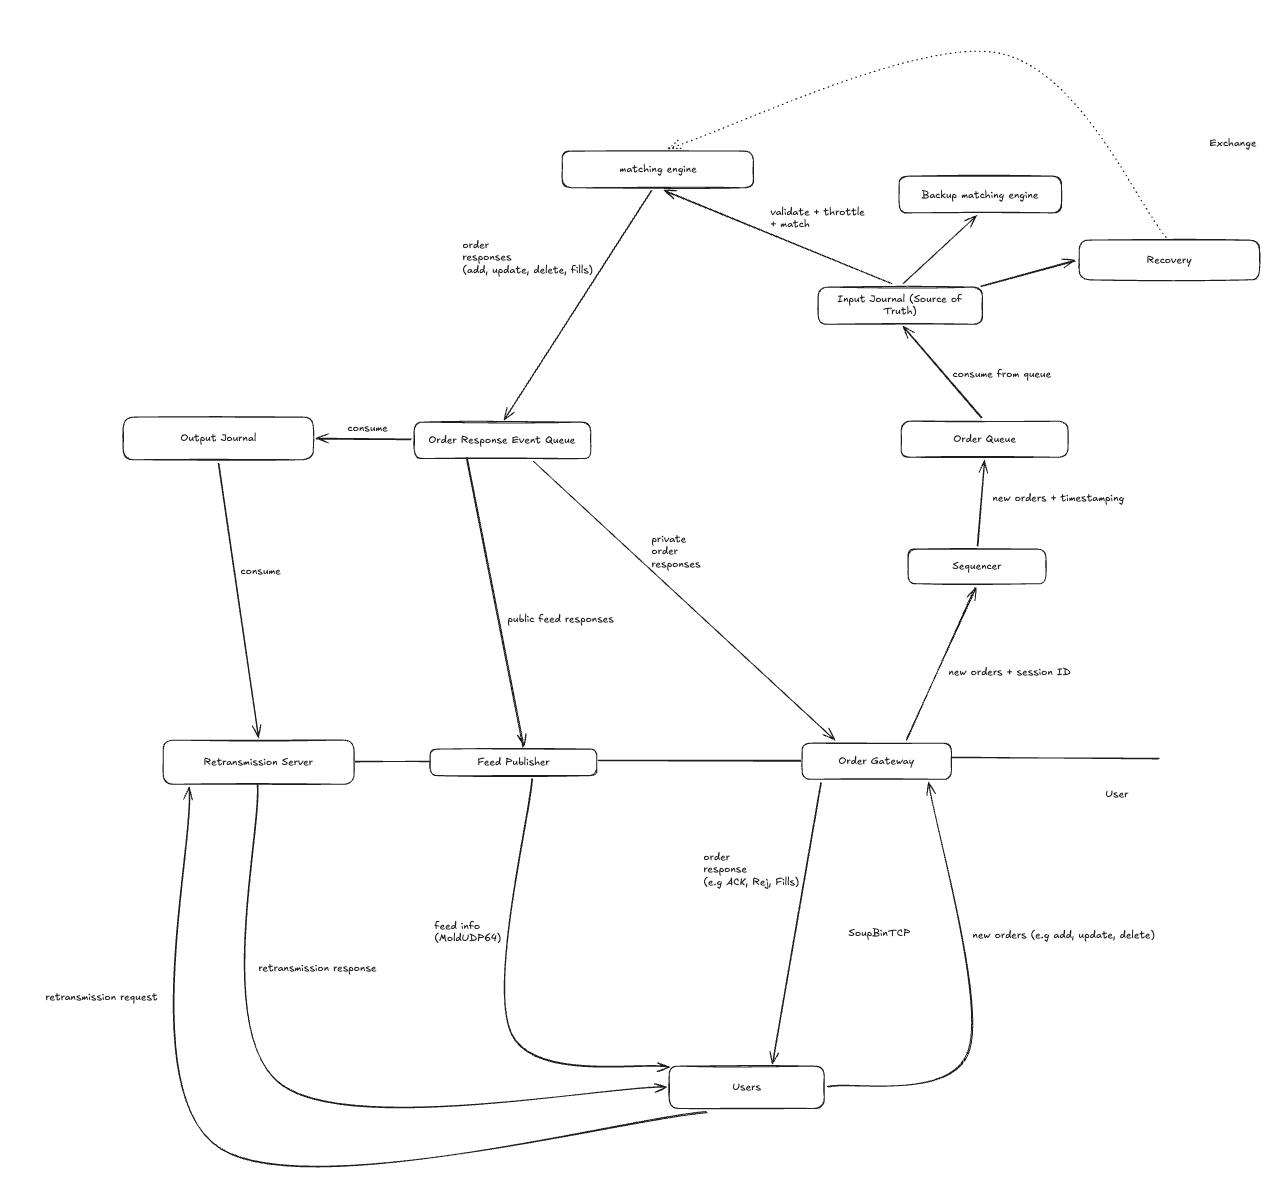
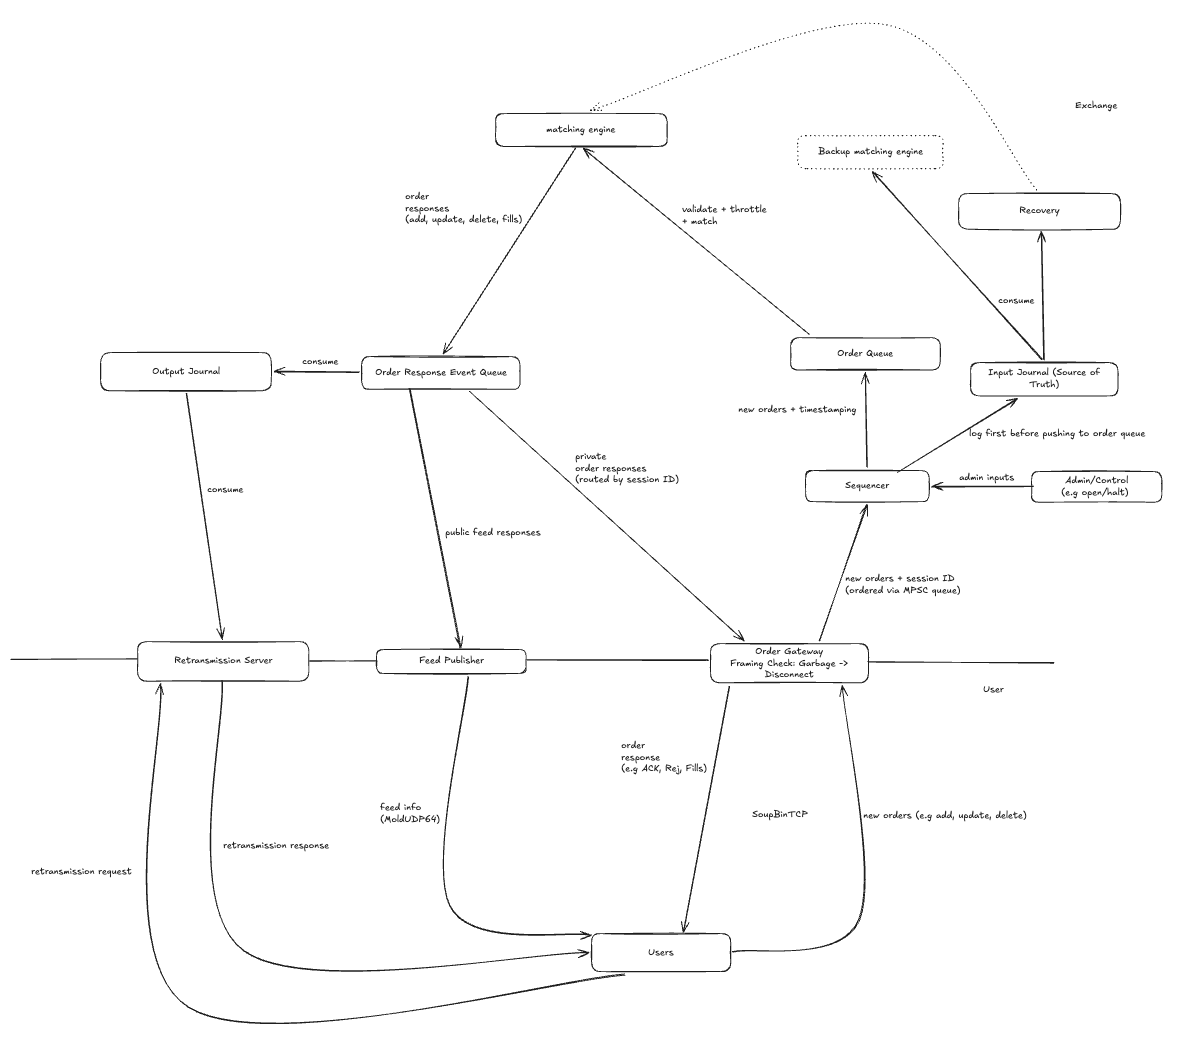
[feat]: update architecture and components

diff --git a/docs/architecture/components.md b/docs/architecture/components.md
@@ -1,0 +1,114 @@
+# Components & Data Flow
+
+## Diagram
+
+![Architecture](../../img/architecture.png)
+
+Dashed boxes are future components while arrows represent data flows.
+
+**Write-ahead input journal:** The sequencer appends every input to the input journal *before* enqueueing it to the Order Queue. This allows the input journal to act as the single source of truth which can be replayable after a crash. Durability level: Page cache.
+
+**Deterministic Engine:** Given the same input journal, the engine produces identical output. All time comes from timestamps stored in the journal. This ensures that replay and recovery is deterministic.
+
+**Output sequence numbers are assigned by the deterministic engine:** Per-channel message seq #s (ITCH/MoldUDP64, each SoupBinTCP session) are assigned by the engine as a function of the input stream, so replay regenerates identical numbers. Receivers dedupe by seq #. This ensures that retransmission and session replay works across restarts.
+
+**One writer for all responses:** Validation, throttling and matching all run on the engine thread. Throttles use the journaled timestamp.
+
+**Two IDs per order:** Client token is private to its session. The engine assigns an exchange reference on accept and the public feed only ever shows the exchange reference. A resting order keeps the exchange reference.
+
+**Ordering is guaranteed within a channel only:** Across channels (e.g. an OUCH fill vs the ITCH execution of the same trade) there is no ordering guarantee. Correlation can be done by match number.
+
+**Every state-changing input goes through the sequencer and journal:** Includes admin/control commands (open, halt, add symbol) and session events.
+
+**Priority:** Price-time priority uses the sequence number generated by the sequencer.
+
+## Components
+
+| Component | Responsibility | Owns | Inputs | Outputs |
+|---|---|---|---|---|
+| Order Gateway | Terminates SoupBinTCP sessions: login, framing checks (garbage -> disconnect), forwards client inputs, delivers private responses to its session | Per-session state, each owned by its own session thread: session ID, TCP connection, outbound buffer, SoupBinTCP session state | OUCH messages from clients, private responses from the Event Queue, filtered by session ID | Client inputs + session ID -> Sequencer, session events (login, logout, disconnect + reason) -> Sequencer, OUCH responses -> clients |
+| Acceptor | Accepts TCP connections and assigns each one to a free session thread. Closes the connection if no session slot is free | Session slot allocation | Listening socket | Accepted connection -> a session thread |
+| Admin/Control | User commands: open, halt, resume, close, add symbol | – | User input | Admin commands → Sequencer (journaled like any other input) |
+| Sequencer | Puts every input into one total order | Input seq # counter, sequencer timestamp, input journal (append), producer side of the Order Queue | Client inputs (MPSC from gateway threads), admin commands | Journal records -> Input Journal, sequenced inputs -> Order Queue |
+| Input Journal | Durable, ordered record of every input | Append-only file of sequenced inputs | Records from the Sequencer | Read by Recovery at startup |
+| Matching Engine | Validate -> throttle -> match, one input at a time | Per-symbol order books, order map, per-session throttle state, exchange-reference counter, match # counter, per-channel output seq #s, trading state per symbol | Sequenced inputs from the Order Queue | All responses -> Event Queue |
+| Recovery | Engine runs this on startup: replays the input journal before accepting live input | – (runs as the engine) | Input Journal | Rebuilt engine state |
+| Output Journal | Derived log of every engine output, in order. Can be regenerated by replaying the input journal | Append-only file of output events | Event Queue | Read by the Retransmission Server |
+| Feed Publisher | Packetizes public events into MoldUDP64 and sends them by multicast | Packetization state (current packet, batching) | Public events from the Event Queue | ITCH over MoldUDP64 multicast |
+| Retransmission Server | Answers clients' requests for missed feed messages | Request handling state | Retransmission requests from clients, Output Journal | Retransmission responses |
+
+## Data flows
+
+| From -> To | Carries | Transport | Ordering guarantee |
+|---|---|---|---|
+| Clients → Order Gateway | OUCH messages | SoupBinTCP over TCP, one connection per session | In order per session (TCP) |
+| Order Gateway → Sequencer | Client inputs and session events + session ID | MPSC queue (one producer per gateway thread) | Per producer only, the sequencer defines the global order on dequeue |
+| Admin/Control → Sequencer | Admin commands | Separate queue | Same as above |
+| Sequencer → Input Journal | Sequenced inputs (seq #, timestamp, session ID, payload) | Append to file (page cache) | Seq # order |
+| Sequencer → Order Queue → Matching Engine | Sequenced inputs | SPSC queue | Seq # order |
+| Input Journal → Recovery → Matching Engine | Sequenced inputs (replay) | File read at startup | Seq # order |
+| Matching Engine → Event Queue | All responses (private and public) | Seqlock ring; writer never waits | Engine output order |
+| Event Queue → Order Gateway | Private responses for that session | Each gateway thread reads the ring and filters by session ID | Engine output order |
+| Event Queue → Feed Publisher | Public events | Seqlock ring read | Engine output order |
+| Event Queue → Output Journal | All events | Seqlock ring read | Engine output order |
+| Order Gateway → Clients | OUCH responses | SoupBinTCP over TCP | Session seq # order |
+| Feed Publisher → Clients | ITCH messages | MoldUDP64 over UDP multicast | Message seq # order; may drop or reorder in transit |
+| Output Journal → Retransmission Server | Logged events | File read | Seq # order |
+| Clients ↔ Retransmission Server | Requests / retransmitted messages | MoldUDP64 request/response over UDP unicast | Per request |
+
+## Reference trace
+
+Book before: B sells 100 @ 10.00, C sells 100 @ 10.01, D sells 100 @ 10.02. A sends buy 400 @ 10.03.
+Expected result: 3 executions, 100 shares of A's order rests at 10.03 under A's exchange reference.
+
+| # | Channel | Message | Key fields |
+|---|---|---|---|
+| 1 | OUCH → A | Accepted | A's client token, assigned exchange ref |
+| 2 | OUCH → A | Executed | 100 @ 10.00, match #1 |
+| 3 | OUCH → B | Executed | 100 @ 10.00, match #1 |
+| 4 | ITCH | Order Executed | B's exchange ref, 100, match #1 |
+| 5 | OUCH → A | Executed | 100 @ 10.01, match #2 |
+| 6 | OUCH → C | Executed | 100 @ 10.01, match #2 |
+| 7 | ITCH | Order Executed | C's exchange ref, 100, match #2 |
+| 8 | OUCH → A | Executed | 100 @ 10.02, match #3 |
+| 9 | OUCH → D | Executed | 100 @ 10.02, match #3 |
+| 10 | ITCH | Order Executed | D's exchange ref, 100, match #3 |
+| 11 | ITCH | Add Order | A's exchange ref, buy 100 @ 10.03 |
+
+- One execution per resting order, never aggregated across price levels.
+- Private fills don't reveal the counterparty, the public feed shows exchange refs only.
+- The aggressor's remainder appears publicly only once it rests (row 11).
+- Rows are listed in engine output order. Across channels, clients may see them in a different order.
+
+## Failure modes
+
+| Failure | Effect | Handling |
+|---|---|---|
+| Process crash | All in-memory state lost | Restart, with recovery replaying the input journal. |
+| Kernel panic or power loss | Journal records still in page cache are lost | Clients may have seen responses for inputs that are no longer in the journal |
+| Torn or corrupt journal tail | Replay reads a partial record | Per-record checksum and truncate at first bad record |
+| Client sends malformed framing | Cannot parse the stream | Gateway disconnects the session |
+| Client disconnects | Session gone, orders still are resting | session events through the sequencer |
+| Gateway thread overrun on the Event Queue | Session missed private responses | Disconnect the session, client re-logs in and requests replay. |
+| Feed Publisher overrun | Gap on multicast for every client | Treated as fatal; ring sized so it cannot happen |
+| Output Journal overrun | Missing events in a derived log | Regenerate by replaying the input journal |
+| Retransmission request for a seq # not yet in the Output Journal | Server cannot answer | Ignore/Return RetryAgainLater response or Rejection |
+
+## Verification
+
+| ID | Invariant / test |
+|---|---|
+| V1 | Client-rebuilt book == exchange book at every seq # |
+| V2 | Replaying the input journal produces a byte-identical output journal |
+| V3 | The sweep trace (Reference trace) as a golden-file test |
+| V4 | Per-channel output seq #s are contiguous with no gaps or duplicates |
+| V5 | ASan/UBSan/TSan builds pass all of the above |
+
+## Future components
+
+| Component |
+|---|
+| Snapshot server |
+| A/B feed lines |
+| Bot participants, live viewer |
+| Backup matching engine |

diff --git a/docs/architecture/threads.md b/docs/architecture/threads.md
@@ -1,0 +1,106 @@
+# Threads
+
+Components and data flows are described in [components.md](components.md). This doc covers which thread runs each component, how threads communicate, where they run, and the order they start and stop in.
+
+All threads share one address space and communicate through shared-memory queues.
+All threads, queues and journal buffers live on the same NUMA node so no hot path crosses the interconnect.
+Hot threads run on isolated cores (`isolcpus`, `nohz_full`, IRQs steered away). SMT siblings of hot cores are left idle/disabled so they don't compete for execution resources.
+
+**All memory is allocated and pre-faulted at startup:** Rings, order pools and journal buffers are allocated, touched and locked (`mlock`). No allocation or page fault happens on a hot path.
+
+## Threads
+
+| Thread | Count | Owns | Reads | May block? | Placement |
+|---|---|---|---|---|---|
+| Session | 1 per session (up to `MAX_SESSIONS`) | Its session's state: TCP socket, SoupBinTCP state, outbound buffer | Its socket; Event Queue (filtered by session ID) | No. Non-blocking socket I/O, busy poll | Hot, isolated core each |
+| Acceptor | 1 | Session slot allocation. If all `MAX_SESSIONS` slots are taken, it closes the new connection immediately | Listening socket | Yes, on `accept` | Cold |
+| Admin/Control | 1 | – | Operator input | Yes, on operator input | Cold |
+| Sequencer | 1 | Input seq # counter; sequencer timestamp; input journal (append); producer side of the Order Queue | Gateway → Sequencer MPSC queue; Admin queue | No | Hot, isolated core |
+| Matching Engine | 1 | Everything listed for the engine in components.md; producer side of the Event Queue | Order Queue; Input Journal (startup replay only) | No | Hot, isolated core |
+| Feed Publisher | 1 | MoldUDP64 packetization state | Event Queue (public events) | No. Non-blocking `sendto`, busy poll | Hot, isolated core |
+| Output Journal | 1 | Output journal file | Event Queue (all events) | No | Isolated core. Not latency-critical, but must keep up with the engine to avoid being overrun |
+| Retransmission Server | 1 | Request handling state | Request socket; Output journal file | Yes, on socket and file reads | Cold |
+
+**Isolated cores needed:** 4 + `MAX_SESSIONS` (sequencer, engine, publisher, output journal, one per session), plus at least one housekeeping core for the OS, IRQs and cold threads.
+
+### Thread Separation Idea
+
+**Session threads vs Sequencer:** sessions do socket I/O, framing and per-session buffering. Keeping that off the sequencer means one slow or misbehaving client never delays sequencing for others.
+
+**Sequencer vs Matching Engine:** the sequencer absorbs the input journal append. The engine only sees inputs that are already journaled, and its core does nothing but match.
+
+**Matching Engine vs Event Queue readers:** publishing, journaling and session delivery happen on other cores. The engine's only output cost is writing to the ring.
+
+**Feed Publisher vs Output Journal:** a stall in file I/O must never delay market data.
+
+**Acceptor, Admin and Retransmission Server are cold:** none is on the order path, so they don't get isolated cores.
+
+## Queues
+
+| Queue | Producers → Consumers | Type | Capacity | When full / overrun |
+|---|---|---|---|---|
+| Gateway → Sequencer | N session threads → Sequencer | Bounded MPSC | Power of two, to be sized | Session thread stops reading its socket. TCP flow control pushes back to the client. Order entry can be backpressured; market data cannot |
+| Admin → Sequencer | Admin → Sequencer | SPSC | Small | Admin thread waits |
+| Order Queue | Sequencer → Engine | SPSC | Power of two, to be sized | Sequencer waits. Backpressure propagates to the MPSC queue, then to clients |
+| Event Queue | Engine → Sessions, Feed Publisher, Output Journal | Seqlock ring | Power of two, to be sized | Writer never waits. Readers detect overrun by sequence number (see Slow consumers) |
+
+**Sequencer input order:** the sequencer drains the admin queue before the gateway queue on each iteration, so admin commands such as a halt take effect at the next sequence number. The resulting order is whatever the sequencer dequeues, and that order is what gets journaled.
+
+## Slow consumers
+
+During live trading, no reader gates the engine. The writer never waits, so a slow reader can never stall matching. Each reader handles being overrun differently:
+
+| Reader | Why it could fall behind | On overrun |
+|---|---|---|
+| Session thread | Its client isn't reading from TCP, so the outbound buffer fills | Disconnect the session. The disconnect is sent to the sequencer as a session event. The client logs back in and requests replay |
+| Feed Publisher | Should not happen: it only packetizes and sends | Fatal. Raise an alarm and stop. The ring is sized so this can't happen at peak rate |
+| Output Journal | Disk or page-cache writeback stall | Regenerate the missing range by replaying the input journal |
+
+**Early warning:** every reader exports its lag (engine write position minus its read position). An alarm fires well before the lag reaches ring capacity.
+
+## Ordering and time
+
+**Total order:** the sequencer's dequeue order. It assigns the seq #, which also defines time priority.
+
+**Timestamps:** the sequencer stamps each input when it dequeues it. Timestamps are journaled and reported (e.g. in ITCH messages), but never used for ordering.
+
+**Clock sources:** reported timestamps come from `CLOCK_REALTIME` via the vDSO, taken only by the sequencer. Internal latency measurement uses the TSC and never enters the journal.
+
+## Durability
+
+**Level:** page cache. The sequencer's append is complete once the record is in the page cache.
+
+**Survives:** a process crash. **Does not survive:** a kernel panic or power loss. Records still in the page cache are lost, and clients may already have seen responses to them.
+
+**Mechanism:** an append-only, pre-allocated and pre-faulted file, with a per-record checksum. Append cost: to be measured.
+
+## Lifecycle
+
+### Startup
+
+1. Load config. Allocate, pre-fault and lock all memory. Pin every thread to its core.
+2. Start the Output Journal and Retransmission Server threads.
+3. The engine replays the input journal (recovery). Replayed events go to the Event Queue, and only the Output Journal consumes them, to rebuild its file. During replay only, the engine waits for the Output Journal before overwriting a slot. Replay runs at full speed with no live traffic, so without this the Output Journal would be overrun, and its overrun policy (replay again) would loop.
+4. Start the Sequencer. It appends to the end of the input journal.
+5. Start the Feed Publisher. It begins at the first event after replay, so replayed events are not re-sent. Clients recover gaps through the Retransmission Server.
+6. Start the Admin thread, then the Acceptor. Session threads are pre-spawned and pinned, and pick up connections as the Acceptor assigns them.
+7. The exchange accepts orders after an admin `open` command.
+
+### Shutdown
+
+1. Admin `close` is sequenced and processed like any other input.
+2. Stop the Acceptor. Session threads stop reading new input and send logout session events.
+3. The Sequencer drains its queues, then stops.
+4. The engine drains the Order Queue, then stops.
+5. Readers drain the Event Queue up to the engine's last write, then stop.
+6. The Output Journal and input journal files are flushed and closed.
+
+## Latency Measurements (TBC)
+
+| Stage | p50 | p99 | p99.9 | max |
+|---|---|---|---|---|
+| Socket read → MPSC enqueue (session thread) | – | – | – | – |
+| MPSC dequeue → journal append → Order Queue (sequencer) | – | – | – | – |
+| Order Queue → Event Queue (engine) | – | – | – | – |
+| Event Queue → `sendto` (publisher) | – | – | – | – |
+| Event Queue → TCP send (session thread) | – | – | – | – |
